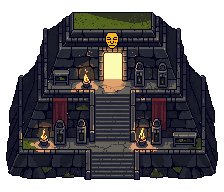
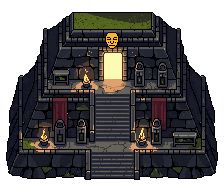
feat(merveilles): Couronne de Pierre — 5 sprites pixel-art + seuils corriges
Merveille 3 (era_kingdom), concept "Cercle du Serment" (accretion radiale,
la geologie devient orfevrerie) : cromlech brut -> anneau taille a fleurons
-> forteresse-couronne a gemmes -> couronne d'or sur muraille -> couronne
pure colossale (choix de Raphael vs variante forteresse a porte).

- Seuils reechelonnes [19,22,25,29,33] = Royaume / Conquerant / Empire /
  Metropole / Machination. Les anciens [9..25] dataient d'avant la refonte
  des eres ("Royaume" etait l'ere 9, c'est la 19) : la couronne naissait
  au Bourg agricole. reEra inchange (echelle de reapparition par cycle).
- Sprites era_kingdom-t1..t5.png (128x88 -> 400x256), seule merveille plus
  large que haute. Post-traitement : fonds strip, herbe/dallage/silhouette
  humaine effaces, portes re-remplies en degrade sombre (l'interieur
  PixelLab sort blanc/gris, opaque ou transparent selon le tirage).
- era_kingdom ajoute a WONDER_PX_IDS ; verifie en jeu rangs I a V.
- Docs a jour ; animations (scintillement de gemmes) a suivre.

diff --git a/src/game/map/layout.js b/src/game/map/layout.js
@@ -137,7 +137,11 @@ const CM_WONDERS = [
     tierLabel: (v) => `${fmtShort(v)} habitants` },
   { id: "era_kingdom",    name: "La Couronne de Pierre",      icon: "crown",     slot: { angle: -1.25, ring: 1.18 }, reEra: 9,
     unlockedBy: "Âge du royaume atteint.",
-    metric: (s) => cmEraIndexFor(s), tiers: [9, 13, 17, 21, 25],
+    // Rééchelonné 2026-07-03 : « Royaume » = ère 19 depuis la refonte des ères
+    // (les anciens seuils [9..25] faisaient naître la couronne au Bourg agricole).
+    // Chaque rang tombe sur une ère iconique : Royaume, Royaume conquérant,
+    // Empire, Métropole, Machination (fin de course juste avant la Singularité).
+    metric: (s) => cmEraIndexFor(s), tiers: [19, 22, 25, 29, 33],
     tierLabel: (v) => `ère « ${eras[v] ? eras[v].name : v} »` },
   { id: "era_empire",     name: "L'Arc de Triomphe Éternel",  icon: "arch",      slot: { angle: 0.02, ring: 0.82 }, reEra: 13,
     unlockedBy: "500 achats accomplis (bâtiments et décrets).",

diff --git a/src/game/map/renderBuildings.js b/src/game/map/renderBuildings.js
@@ -445,7 +445,7 @@ function drawMinimap() {
 // en overlay, positionnées par <id>-flames.json (ancres curées à la main).
 // Manifeste : seules les merveilles listées ici sont migrées, les autres
 // restent procédurales. Repli procédural tant que le sprite n'est pas chargé.
-const WONDER_PX_IDS = new Set(["dynasty1", "pop1m"]);
+const WONDER_PX_IDS = new Set(["dynasty1", "pop1m", "era_kingdom"]);
 const wonderPxCache = new Map(); // "dynasty1-t3" -> { img, ready, nw, nh }
 function wonderPixelSprite(id, tier) {
   if (!WONDER_PX_IDS.has(id)) return null;

diff --git a/public/pixelart/wonders/README.md b/public/pixelart/wonders/README.md
@@ -11,7 +11,7 @@ Lumière en HAUT-GAUCHE → ombres en BAS-DROITE (règle globale de la carte).
 |---|----|-----|-------|----------------|---------------------------|--------------------|
 | 1 | `dynasty1` | Le Mausolée du Fondateur | mausoleum | Première dynastie fondée | 1 / 50 / 200 / 400 / 750 dynasties (rééchelonné 2026-07-02, sim ~540-634 dyn/partie) | 2 |
 | 2 | `pop1m` | La Colonne du Million | column | Population ≥ 1 000 000 | 1e6 / 1e13 / 1e20 / 1e27 / 1e34 habitants (rééchelonné 2026-07-02 : +7 ordres de grandeur par rang, rang V ≈ ère 33-34) | 6 |
-| 3 | `era_kingdom` | La Couronne de Pierre | crown | Âge du royaume atteint | ères 9 / 13 / 17 / 21 / 25 | 9 |
+| 3 | `era_kingdom` | La Couronne de Pierre | crown | Âge du royaume atteint | ères 19 / 22 / 25 / 29 / 33 — Royaume / Conquérant / Empire / Métropole / Machination (rééchelonné 2026-07-03 : « Royaume » = ère 19 depuis la refonte des ères) | 9 |
 | 4 | `era_empire` | L'Arc de Triomphe Éternel | arch | 500 achats accomplis | 500 / 2 500 / 10 000 / 15 000 / 20 000 achats | 13 |
 | 5 | `era_mega` | L'Aiguille Céleste | needle | 30 min de veille | 30 min / 2 h / 8 h / 24 h / 72 h de jeu | 17 |
 | 6 | `era_singularity` | L'Œil de la Singularité | eye | Premier mythe accompli | 1 / 3 / 5 / 8 / 12 mythes | 21 |
@@ -55,7 +55,19 @@ Suivi du rework (une ligne par merveille, cocher quand validée) :
       (erase-baked-pop1m.cjs) car crops à fond transparent. `pop1m-flames.json` porte les
       options par asset (mode/loop/anchor/sc/ms). Ajoutée à WONDER_PX_IDS. Vérifiée en jeu
       rangs II/IV/V (rotation, flambée, flottements OK, patchs sans couture).
-- [ ] 3. La Couronne de Pierre (`era_kingdom`)
+- [x] 3. La Couronne de Pierre (`era_kingdom`) — concept « Cercle du Serment » (accrétion
+      RADIALE, la géologie devient orfèvrerie : cromlech brut → anneau taillé à fleurons →
+      forteresse-couronne à gemmes → couronne d'or sur muraille → COURONNE PURE colossale,
+      choix de Raphaël vs variante « couronne-forteresse à porte »). 5 sprites générés
+      2026-07-03 (`era_kingdom-t1..t5.png`, 128×88 → 400×256, la seule merveille plus LARGE
+      que haute). Seuils rééchelonnés ères 19/22/25/29/33 (« Royaume » = ère 19 depuis la
+      refonte des ères ; les anciens seuils [9..25] tombaient au Bourg agricole).
+      Post-traitement : strip-bg (t4/t5 fond uni) + nettoyage (herbe/dallage/silhouette
+      humaine effacés, portes re-remplies en dégradé sombre — l'intérieur PixelLab était
+      blanc/gris opaque ou transparent selon le tirage). Intégrée à WONDER_PX_IDS,
+      vérifiée en jeu rangs I-V. Reste : animations (scintillement des gemmes en patch ?)
+      à valider avec Raphaël — l'ancienne proposition « escarboucle pulsante » visait la
+      variante forteresse, non retenue.
 - [ ] 4. L'Arc de Triomphe Éternel (`era_empire`)
 - [ ] 5. L'Aiguille Céleste (`era_mega`)
 - [ ] 6. L'Œil de la Singularité (`era_singularity`)

diff --git a/REPRISE-merveilles.md b/REPRISE-merveilles.md
@@ -93,12 +93,35 @@ convention `<id>-t<rang>.png`, suivi).
   Slot merveille : `__CM.layout.wonderSlots[1]` (idx = position dans CM_WONDERS, pas dans
   state.wonders).
 
-## Merveilles 3-6 : ⬜ À FAIRE
+## Merveille 3 — La Couronne de Pierre (`era_kingdom`) : 🟡 SPRITES EN JEU, reste anims
 
-`era_kingdom` (Couronne de Pierre), `era_empire` (Arc de Triomphe), `era_mega` (Aiguille
-Céleste), `era_singularity` (Œil de la Singularité). Pour chacune : **d'abord vérifier/
-rééchelonner les seuils** dans `CM_WONDERS` (comparer aux sims), puis design → 5 sprites
-frontaux → animations overlay → ajout à `WONDER_PX_IDS`. Concepts pas encore arrêtés.
+- Concept « **Cercle du Serment** » (validé) : accrétion RADIALE — la géologie devient
+  orfèvrerie. I cromlech brut sur butte → II anneau taillé à fleurons bronze → III
+  forteresse-couronne à gemmes grenat → IV couronne d'or sur muraille ronde (porte sombre)
+  → V **couronne pure colossale** (choix de Raph contre la variante « forteresse à porte +
+  escarboucle » ; les deux tirages sont dans le scratchpad de session si besoin).
+- **Seuils rééchelonnés** : ères `[19, 22, 25, 29, 33]` = Royaume / Conquérant / Empire /
+  Métropole / Machination. ⚠ Les anciens seuils [9,13,17,21,25] dataient d'AVANT la
+  refonte des ères (« Royaume » était l'ère 9, c'est maintenant la 19). reEra reste 9
+  (échelle de réapparition par cycle, indépendante du 1er déblocage).
+- **Sprites** : `era_kingdom-t1..t5.png` (128×88 → 400×256), la seule merveille plus
+  LARGE que haute. Post-traitement notable : les PORTES PixelLab sortent blanches/grises
+  (opaque OU transparent selon tirage) → re-remplies en dégradé sombre par boîte bornée à
+  la base de muraille MESURÉE (un flood-fill fuit par le bas du canvas) ; herbe/dallage/
+  silhouette humaine effacés. Vérifiée en jeu rangs I-V (⚠ premier accès = repli
+  procédural ~1 s, precharger avant capture).
+- **RESTE** : animations. L'« escarboucle pulsante » proposée visait la variante non
+  retenue ; à re-proposer → piste : SCINTILLEMENT DES GEMMES (patchs custom-start sur les
+  rubis, t3-t5) + éventuel reflet qui court sur l'or du bandeau.
+
+## Merveilles 4-6 : ⬜ À FAIRE
+
+`era_empire` (Arc de Triomphe), `era_mega` (Aiguille Céleste), `era_singularity` (Œil de
+la Singularité). Pour chacune : **d'abord vérifier/rééchelonner les seuils** dans
+`CM_WONDERS` (l'Arc « 500..20000 achats » et l'Aiguille « 30min..72h » semblent plausibles
+mais à recouper avec les sims ; l'Œil « 1..12 mythes » à recouper avec le rythme des
+mythes), puis design → 5 sprites frontaux → animations → ajout à `WONDER_PX_IDS`.
+Concepts pas encore arrêtés.
 
 ---
 
